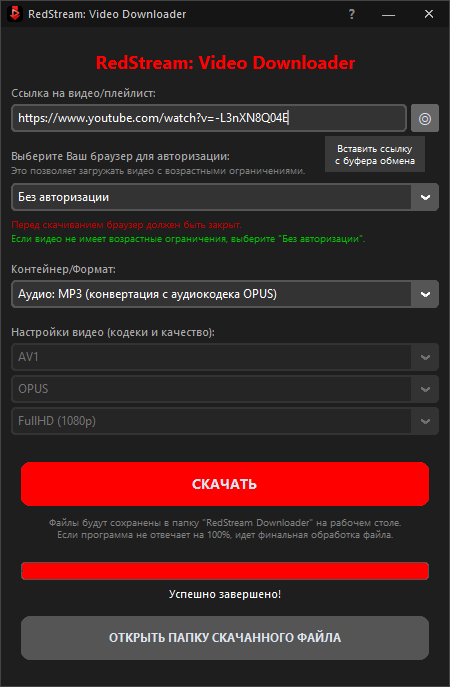
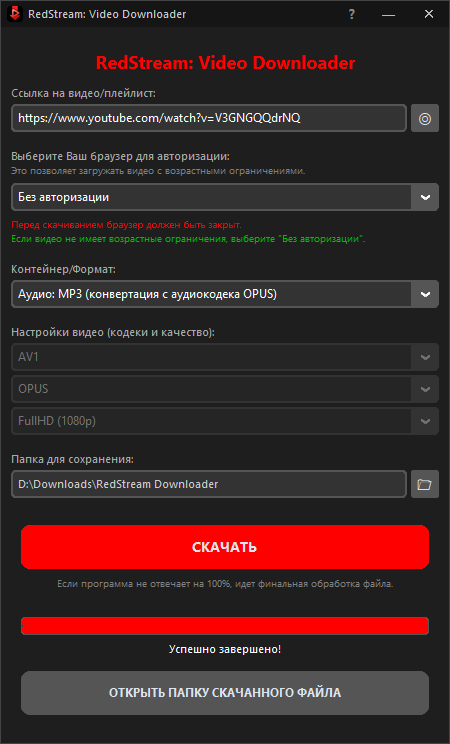
Add files via upload

diff --git a/main.py b/main.py
@@ -5,12 +5,29 @@ import threading
 import re
 import time
 import ctypes
+import winreg
+import tkinter.filedialog as filedialog
 
 import customtkinter as ctk
 from PIL import Image
+
 def resource_path(name):
     base = getattr(sys, "_MEIPASS", os.path.dirname(os.path.abspath(__file__)))
     return os.path.join(base, name)
+
+def get_downloads_folder():
+    try:
+        key = winreg.OpenKey(
+            winreg.HKEY_CURRENT_USER,
+            r"SOFTWARE\Microsoft\Windows\CurrentVersion\Explorer\Shell Folders",
+        )
+        value, _ = winreg.QueryValueEx(key, "{374DE290-123F-4565-9164-39C4925E467B}")
+        winreg.CloseKey(key)
+        if value and os.path.isdir(value):
+            return value
+    except Exception:
+        pass
+    return os.path.join(os.path.expanduser("~"), "Downloads")
 
 def force_taskbar(hwnd):
     try:
@@ -45,9 +62,9 @@ def show_splash_on_app(app, on_done):
     ctk_img = ctk.CTkImage(light_image=img, dark_image=img, size=(iw, ih))
     ctk.CTkLabel(splash, image=ctk_img, text="").pack()
 
-    steps      = 30
-    step_ms    = int(3.0 * 0.3 / steps * 1000)
-    hold_ms    = int(3.0 * 0.4 * 1000)
+    steps   = 30
+    step_ms = int(3.0 * 0.3 / steps * 1000)
+    hold_ms = int(3.0 * 0.4 * 1000)
 
     def fade_in(i=0):
         try: splash.attributes("-alpha", i / steps)
@@ -186,9 +203,9 @@ def show_about(parent):
     GITHUB_URL = "https://github.com/frostbittenbull/RedStream"
     meta_rows = [
         ("Автор:",     "#frostbittenbull",   "#ffffff", None),
-        ("Сайт:",      "github.com",    "#4ea8de", GITHUB_URL),
-        ("Версия:",    "1.0",                "#aaaaaa", None),
-        ("Сборка:",    "01.03.2025",         "#aaaaaa", None),
+        ("Сайт:",      "github.com",         "#4ea8de", GITHUB_URL),
+        ("Версия:",    "1.1",                "#aaaaaa", None),
+        ("Сборка:",    "09.03.2025",         "#aaaaaa", None),
         ("Платформа:", "Windows 10/11",      "#aaaaaa", None),
     ]
     meta_frame = ctk.CTkFrame(popup, fg_color="transparent")
@@ -235,11 +252,10 @@ class RedStreamApp(ctk.CTk):
         super().__init__()
 
         self.withdraw()
-
         self.overrideredirect(True)
         self.configure(fg_color="#444444")
 
-        W, H = 450, 687
+        W, H = 450, 744
         sw, sh = self.winfo_screenwidth(), self.winfo_screenheight()
         self.geometry(f"{W}x{H}+{(sw - W) // 2}+{(sh - H) // 2}")
 
@@ -268,7 +284,10 @@ class RedStreamApp(ctk.CTk):
         self._timer_id = None
         self._log_file  = os.path.join(os.environ.get("TEMP", "/tmp"), "yt_progress.txt")
         self._done_file = os.path.join(os.environ.get("TEMP", "/tmp"), "yt_done.txt")
-        self._dest_folder = os.path.join(os.path.expanduser("~"), "Desktop", "RedStream Downloader")
+
+        downloads = get_downloads_folder()
+        self._dest_folder = os.path.join(downloads, "RedStream Downloader")
+
         self._downloading_video_stream = True
 
         self._build_ui()
@@ -380,7 +399,7 @@ class RedStreamApp(ctk.CTk):
         )
         self.browser_combo.pack(fill="x", pady=(6, 6))
         ctk.CTkLabel(sec2, text="Перед скачиванием браузер должен быть закрыт.",
-                     text_color="#bf0000", font=("Segoe UI", 10), anchor="w", height=14).pack(fill="x")
+                     text_color="#ff0000", font=("Segoe UI", 10), anchor="w", height=14).pack(fill="x")
         ctk.CTkLabel(sec2,
                      text="Если видео не имеет возрастные ограничения, выберите \"Без авторизации\".",
                      text_color="#00bf00", font=("Segoe UI", 10), anchor="w", height=14).pack(fill="x")
@@ -419,6 +438,35 @@ class RedStreamApp(ctk.CTk):
         self.res_combo = make_combo(sec4, values=list(self._res_map.keys()), default="FullHD (1080p)")
         self.res_combo.pack(fill="x")
 
+        sec_folder = self._section(p)
+        ctk.CTkLabel(sec_folder, text="Папка для сохранения:",
+                     text_color="#aaaaaa", font=("Segoe UI", 11), anchor="w", height=14).pack(fill="x")
+
+        folder_row = ctk.CTkFrame(sec_folder, fg_color="transparent")
+        folder_row.pack(fill="x", pady=(4, 0))
+        folder_row.columnconfigure(0, weight=1)
+
+        self.folder_entry = ctk.CTkEntry(
+            folder_row,
+            fg_color="#333333", border_color="#555555",
+            text_color="#cccccc", font=("Segoe UI", 11),
+            state="disabled",
+        )
+        self.folder_entry.grid(row=0, column=0, sticky="ew")
+
+        self.folder_entry.configure(state="normal")
+        self.folder_entry.insert(0, self._dest_folder)
+        self.folder_entry.configure(state="disabled")
+
+        browse_btn = ctk.CTkButton(
+            folder_row, text="📁", width=28, height=28,
+            fg_color="#555555", hover_color="#666666",
+            corner_radius=4, font=("Segoe UI", 13),
+            command=self._browse_folder,
+        )
+        browse_btn.grid(row=0, column=1, padx=(4, 0))
+        self._add_tooltip(browse_btn, "Выбрать папку\nдля сохранения")
+
         self.download_btn = ctk.CTkButton(
             p, text="СКАЧАТЬ", font=("Segoe UI", 14, "bold"),
             fg_color="#ff0000", hover_color="#bf0000",
@@ -429,11 +477,10 @@ class RedStreamApp(ctk.CTk):
 
         ctk.CTkLabel(
             p,
-            text='Файлы будут сохранены в папку "RedStream Downloader" на рабочем столе.\n'
-                 'Если программа не отвечает на 100%, идет финальная обработка файла.',
+            text="Если программа не отвечает на 100%, идет финальная обработка файла.",
             text_color="#808080", font=("Segoe UI", 10),
             justify="center", wraplength=410,
-        ).pack(pady=(8, 0), padx=20)
+        ).pack(pady=(0, 0), padx=20)
 
         self.progress_frame = ctk.CTkFrame(p, fg_color="transparent")
         self.progress_bar = ctk.CTkProgressBar(
@@ -513,6 +560,20 @@ class RedStreamApp(ctk.CTk):
         except Exception: pass
         inner.insert("insert", text)
         self.url_entry.focus_set()
+
+    def _browse_folder(self):
+        initial = self._dest_folder if os.path.isdir(self._dest_folder) else os.path.dirname(self._dest_folder)
+        chosen = filedialog.askdirectory(
+            title="Выберите папку для сохранения",
+            initialdir=initial,
+            parent=self,
+        )
+        if chosen:
+            self._dest_folder = chosen
+            self.folder_entry.configure(state="normal")
+            self.folder_entry.delete(0, "end")
+            self.folder_entry.insert(0, self._dest_folder)
+            self.folder_entry.configure(state="disabled")
 
     def _toggle_settings(self):
         fmt = self._format_map.get(self.format_combo.get(), "mp4")
@@ -720,7 +781,7 @@ class RedStreamApp(ctk.CTk):
             win.update_idletasks()
             ww, wh = win.winfo_width(), win.winfo_height()
             x = self.winfo_x() + (450 - ww) // 2
-            y = self.winfo_y() + (660 - wh) // 2
+            y = self.winfo_y() + (744 - wh) // 2
             win.geometry(f"+{x}+{y}")
             win.lift()
         win.after(10, _center)
